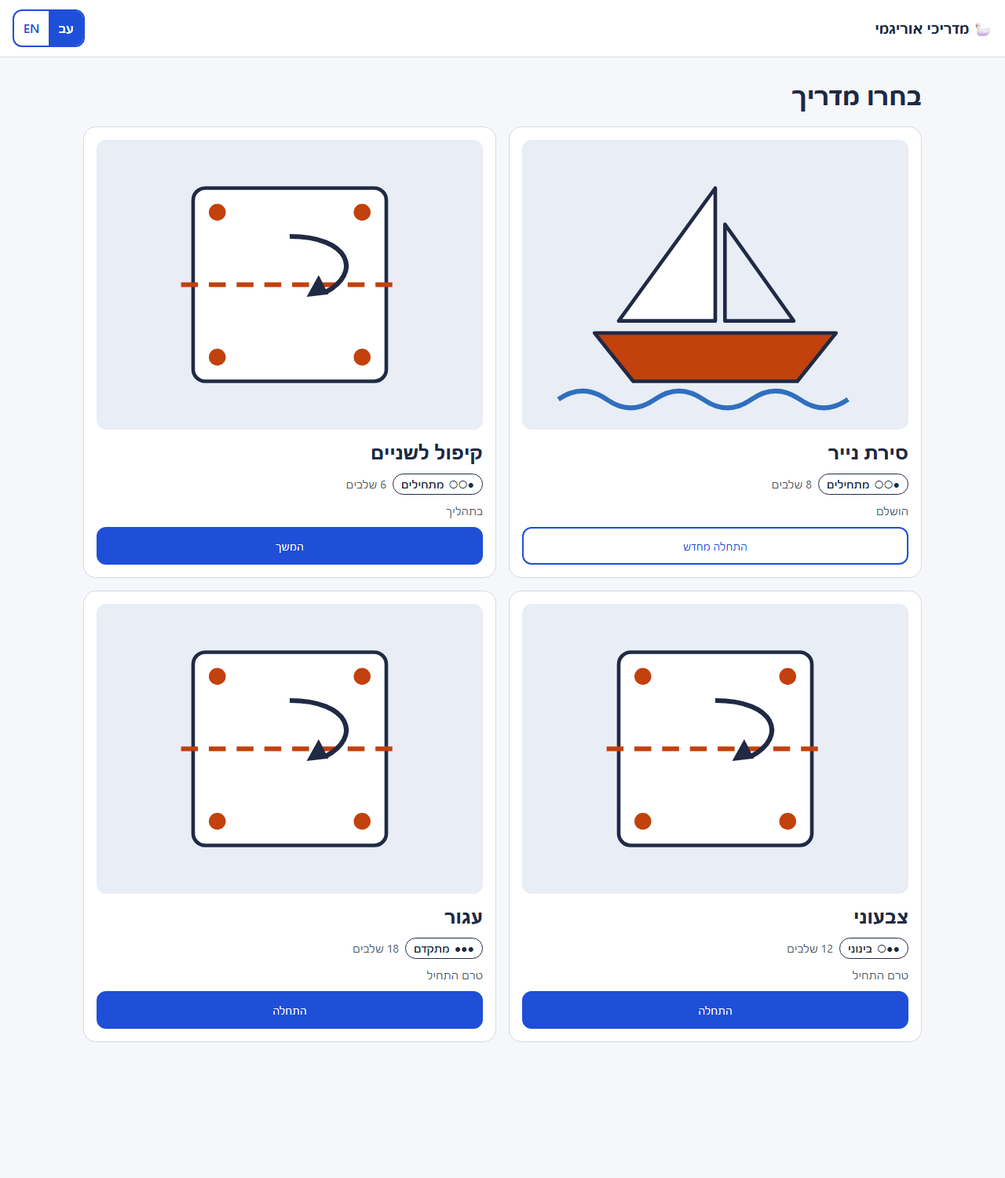
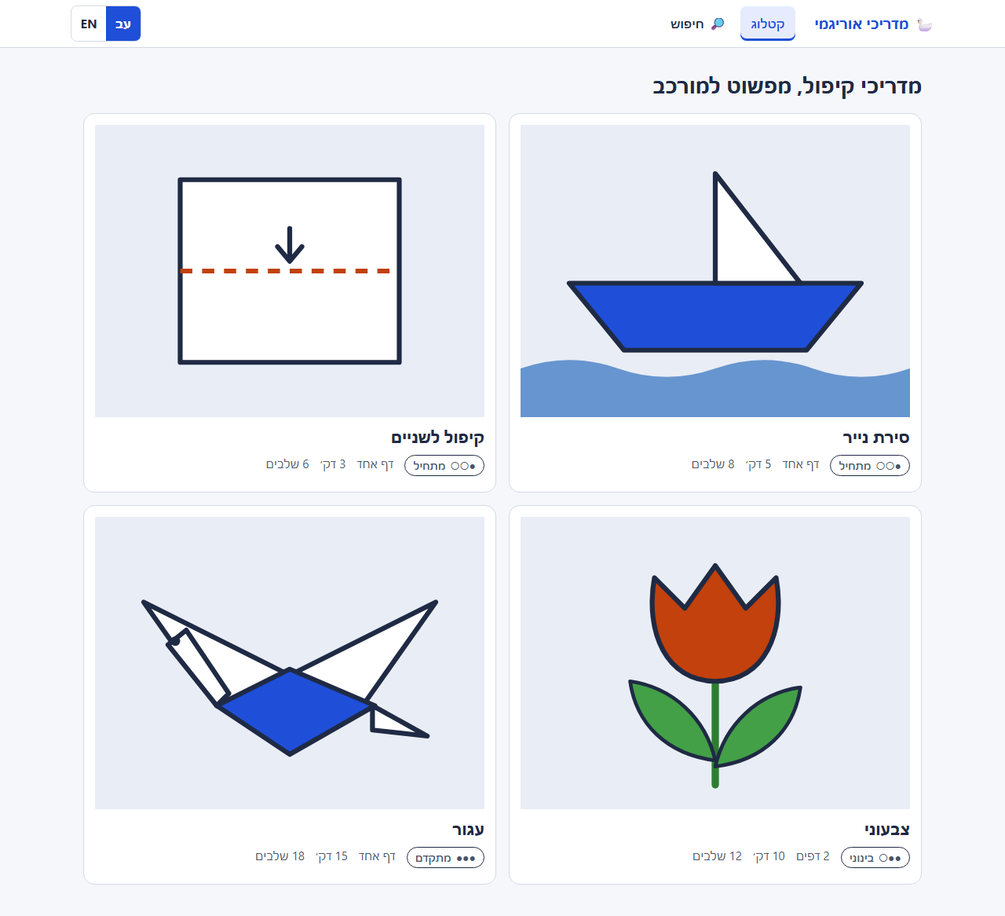
Add navbar, search and catalog table to PRD with full app mockups

diff --git a/docs/design/src/mockup.html b/docs/design/src/mockup.html
@@ -1,52 +1,152 @@
 <!doctype html>
 <html><head><meta charset="utf-8"><meta name="viewport" content="width=device-width,initial-scale=1">
-<title>Origami Guides mockup</title>
+<title>Origami mockup</title>
 <style>
 :root{--bg:#F6F7FB;--ink:#1F2A44;--brand:#1F4FD8;--accent:#C2410C;--water:#2F6FBF;--muted:#4B5568;--line:#D5DAE5;--paper:#fff;--paper-shade:#E9EDF5}
 *{box-sizing:border-box}
-body{margin:0;background:var(--bg);color:var(--ink);font-family:Heebo,Assistant,"Segoe UI",Arial,sans-serif;font-size:16px;line-height:1.5}
-header{display:flex;justify-content:space-between;align-items:center;padding:12px 16px;background:#fff;border-block-end:1px solid var(--line)}
-.logo{font-weight:700;font-size:18px}
-.sw{display:flex;border:2px solid var(--brand);border-radius:12px;overflow:hidden}
-.sw span{min-width:44px;height:44px;display:flex;align-items:center;justify-content:center;font-weight:600;color:var(--brand)}
-.sw span.on{background:var(--brand);color:#fff}
-main{max-width:1100px;margin:0 auto;padding:16px}
+body{margin:0;background:var(--bg);color:var(--ink);font-family:Heebo,Assistant,"Segoe UI",Arial,sans-serif;font-size:16px;line-height:1.5;position:relative;min-height:100vh}
+a{color:inherit;text-decoration:none}
+nav.top{background:#fff;border-bottom:1px solid var(--line);padding:0 16px}
+.bar1{display:flex;align-items:center;gap:8px;min-height:60px;max-width:1100px;margin:0 auto}
+.logo{display:flex;align-items:center;gap:8px;font-weight:700;font-size:18px;min-height:44px;color:var(--brand)}
+.links{display:flex;gap:4px;margin-inline-start:16px}
+.links a{min-height:44px;min-width:44px;padding:0 14px;display:flex;align-items:center;gap:6px;border-radius:8px;font-weight:600}
+.links a.cur{background:#E6ECFD;color:var(--brand);box-shadow:inset 0 -3px 0 var(--brand)}
+.sp{flex:1}
+.sw{display:flex;border:1px solid var(--line);border-radius:8px;overflow:hidden}
+.sw span{min-width:44px;min-height:44px;display:flex;align-items:center;justify-content:center;font-weight:700}
+.sw .on{background:var(--brand);color:#fff}
+.burger{display:none;min-width:44px;min-height:44px;border:1px solid var(--line);border-radius:8px;background:#fff;font-size:22px;align-items:center;justify-content:center}
+.mm{display:none}
+main{max-width:1100px;margin:0 auto;padding:20px 16px 40px}
 h1{font-size:26px;margin:8px 0 16px}
-.card{background:#fff;border:1px solid var(--line);border-radius:16px;padding:16px;display:flex;flex-direction:column;gap:10px}
-.card svg,.hero svg{width:100%;height:auto;background:var(--paper-shade);border-radius:12px}
+h2{font-size:20px;margin:0 0 8px}
+.card{background:var(--paper);border:1px solid var(--line);border-radius:14px;padding:14px;display:block}
 .grid{display:grid;gap:16px;grid-template-columns:1fr}
-.badge{display:inline-flex;gap:6px;align-items:center;border:1.5px solid var(--ink);border-radius:999px;padding:2px 10px;font-size:14px;font-weight:600;width:fit-content}
-.st{color:var(--muted);font-size:14px}
-.btn{min-height:48px;padding:0 20px;border-radius:12px;border:2px solid var(--brand);background:#fff;color:var(--brand);font:600 16px inherit;font-family:inherit;display:inline-flex;align-items:center;justify-content:center;gap:8px}
+@media(min-width:900px){.grid{grid-template-columns:1fr 1fr}}
+.cover{background:var(--paper-shade);border-radius:10px;width:100%;aspect-ratio:4/3;display:block}
+.cover svg,.fold svg{width:100%;height:100%;display:block}
+.meta{display:flex;flex-wrap:wrap;gap:6px 14px;color:var(--muted);font-size:15px;margin:6px 0}
+.badge{display:inline-flex;align-items:center;gap:6px;border:1px solid var(--ink);border-radius:999px;padding:2px 10px;font-size:14px;font-weight:600;background:#fff}
+.btn{min-height:48px;padding:0 18px;border-radius:10px;border:2px solid var(--brand);background:#fff;color:var(--brand);font:inherit;font-weight:700;display:inline-flex;align-items:center;justify-content:center;gap:8px;cursor:pointer}
 .btn.p{background:var(--brand);color:#fff}
-.btn.d{border-color:#B42318;color:#B42318}
-.row{display:flex;gap:12px;flex-wrap:wrap}.row .btn{flex:1}
-.bar{height:10px;background:var(--line);border-radius:6px;overflow:hidden}.bar i{display:block;height:100%;background:var(--brand)}
-.split{display:grid;gap:16px;grid-template-columns:1fr}
-.panel{display:flex;flex-direction:column;gap:14px}
-.tag{background:#FFF1E8;color:#9A3412;border:1.5px dashed #9A3412;border-radius:8px;padding:2px 10px;width:fit-content;font-weight:600;font-size:14px}
-select{min-height:48px;border:2px solid var(--line);border-radius:12px;padding:0 12px;font-size:16px;font-family:inherit;background:#fff;color:var(--ink)}
-.center{text-align:center;align-items:center}
+.btn.d{background:#B42318;border-color:#B42318;color:#fff}
+.row{display:flex;flex-wrap:wrap;gap:10px;margin-top:12px}.row .btn{flex:1}
+.bar{height:10px;background:var(--paper-shade);border-radius:6px;overflow:hidden}.bar i{display:block;height:100%;background:var(--brand)}
 .mir{display:inline-block}[dir=rtl] .mir{transform:scaleX(-1)}
-#model3d{width:0;height:0;overflow:hidden}
-.inst{font-size:20px;font-weight:500}
-@media(min-width:900px){.grid{grid-template-columns:1fr 1fr}.split{grid-template-columns:1.1fr 1fr;align-items:start}h1{font-size:32px}}
-</style></head><body><div id="app"></div>
+.search{display:flex;align-items:center;gap:10px;background:#fff;border:2px solid var(--brand);border-radius:10px;min-height:52px;padding:0 14px;margin-bottom:16px;outline:3px solid #C7D5FA}
+.search .q{flex:1;font-size:17px}.search .ph{color:var(--muted)}
+.cnt{color:var(--muted);margin:0 0 12px}
+table{width:100%;border-collapse:separate;border-spacing:0;background:#fff;border:1px solid var(--line);border-radius:14px;overflow:hidden}
+th,td{text-align:start;padding:0 16px;min-height:56px;height:56px;border-bottom:1px solid var(--line)}
+tr:last-child td{border-bottom:0}
+th{background:var(--paper-shade);font-weight:700}
+th .h{display:inline-flex;align-items:center;gap:6px;min-height:44px}
+th[aria-sort] .h{color:var(--brand)}
+.focus{outline:3px solid var(--accent);outline-offset:2px}
+.cards{display:none}.tbl{display:block}
+.sortc{display:none}
+.empty{text-align:center;padding:36px 16px}.empty .big{font-size:48px}
+.fold{background:#fff;border:1px solid var(--line);border-radius:14px;aspect-ratio:4/3;width:100%}
+.stepgrid{display:grid;gap:16px;grid-template-columns:1fr}
+@media(min-width:900px){.stepgrid{grid-template-columns:1.2fr 1fr}}
+select{min-height:48px;font:inherit;border:2px solid var(--line);border-radius:10px;padding:0 10px;background:#fff;color:var(--ink)}
+.scrim{position:fixed;inset:0;background:rgba(31,42,68,.55)}
+.dlg{position:absolute;top:200px;left:50%;transform:translateX(-50%);width:min(440px,calc(100% - 32px));background:#fff;border-radius:16px;padding:22px;box-shadow:0 10px 40px rgba(0,0,0,.35)}
+.map{display:grid;gap:18px;grid-template-columns:repeat(3,1fr)}
+.tile{background:#fff;border:2px solid var(--line);border-radius:12px;overflow:hidden}
+.tile h3{margin:0;padding:8px 12px;background:var(--brand);color:#fff;font-size:15px}
+.mini{display:flex;align-items:center;gap:6px;padding:6px 10px;border-bottom:1px solid var(--line);font-size:12px;background:#F8F9FC}
+.mini b{color:var(--brand)}.mini .sp{flex:1}.mini .l{border:1px solid var(--line);border-radius:5px;padding:0 6px}
+.tb{padding:12px;font-size:14px;min-height:110px}
+.sk{background:var(--paper-shade);border-radius:6px;height:14px;margin:6px 0}
+.flow{margin-top:20px;background:#fff;border:1px solid var(--line);border-radius:12px;padding:14px 18px}
+.flow li{margin:4px 0}
+@media(max-width:700px){
+.links{display:none}.burger{display:flex}.sp{display:none}.bar1{justify-content:space-between}
+.mm.open{display:flex;flex-direction:column;border-top:1px solid var(--line);padding:8px 0}
+.mm a{min-height:48px;display:flex;align-items:center;gap:8px;padding:0 8px;font-weight:600;border-radius:8px}
+.mm a.cur{background:#E6ECFD;color:var(--brand)}
+.tbl{display:none}.cards{display:grid;gap:12px}.sortc{display:flex;align-items:center;gap:10px;margin-bottom:12px}.sortc select{flex:1;min-width:0}
+.map{grid-template-columns:1fr}h1{font-size:22px}
+}
+html.m body{width:390px;margin-left:0;margin-right:auto}
+html.m .links{display:none}html.m .burger{display:flex}html.m .sp{display:none}html.m .bar1{justify-content:space-between}
+html.m .mm.open{display:flex;flex-direction:column;border-top:1px solid var(--line);padding:8px 0}
+html.m .mm a{min-height:48px;display:flex;align-items:center;gap:8px;padding:0 8px;font-weight:600;border-radius:8px}
+html.m .mm a.cur{background:#E6ECFD;color:var(--brand)}
+html.m .tbl{display:none}html.m .cards{display:grid;gap:12px}html.m .sortc{display:flex;align-items:center;gap:10px;margin-bottom:12px}html.m .sortc select{flex:1;min-width:0}
+html.m .map{grid-template-columns:1fr}html.m h1{font-size:22px}
+</style></head><body>
+<div id="app"></div>
 <script>
-const q=new URLSearchParams(location.search),L=q.get('lang')==='he'?'he':'en',S=q.get('screen')||'catalog';
-document.documentElement.lang=L;document.documentElement.dir=L==='he'?'rtl':'ltr';
-const T={en:{app:'Origami Guides',cat:'Choose a guide',n:['Paper Boat','Fold in Half','Tulip','Crane'],d:['Beginner','Beginner','Intermediate','Advanced'],st:['Completed','In progress','Not started','Not started'],b:['Restart','Resume','Start','Start'],steps:n=>n+' steps',step:'Step 3 of 8',home:'Back to catalog',diff:'Difficulty',prog:'3 of 8 steps done',resume:'Resume',restart:'Restart',tag:'Valley fold',inst:'Fold the top half down along the dashed line so the edges meet.',leg:'Dashed line = valley fold',jump:'Jump to step',back:'Back',next:'Next',done:'Well done! You finished the Paper Boat.',fin:'Step 8 of 8',clear:'Clear my progress',lang:'Language'},
-he:{app:'מדריכי אוריגמי',cat:'בחרו מדריך',n:['סירת נייר','קיפול לשניים','צבעוני','עגור'],d:['מתחילים','מתחילים','בינוני','מתקדם'],st:['הושלם','בתהליך','טרם התחיל','טרם התחיל'],b:['התחלה מחדש','המשך','התחלה','התחלה'],steps:n=>n+' שלבים',step:'שלב 3 מתוך 8',home:'חזרה לקטלוג',diff:'רמת קושי',prog:'3 מתוך 8 שלבים הושלמו',resume:'המשך',restart:'התחלה מחדש',tag:'קיפול עמק',inst:'קפלו את החצי העליון כלפי מטה לאורך הקו המקווקו כך שהקצוות ייפגשו.',leg:'קו מקווקו = קיפול עמק',jump:'מעבר לשלב',back:'הקודם',next:'הבא',done:'כל הכבוד! סיימתם את סירת הנייר.',fin:'שלב 8 מתוך 8',clear:'ניקוי ההתקדמות שלי',lang:'שפה'}}[L];
-const stepSvg=`<svg viewBox="0 0 320 240" role="img" aria-label="${T.tag}"><rect x="80" y="40" width="160" height="160" rx="10" fill="#fff" stroke="#1F2A44" stroke-width="3"/><g fill="#C2410C"><circle cx="100" cy="60" r="7"/><circle cx="220" cy="60" r="7"/><circle cx="100" cy="180" r="7"/><circle cx="220" cy="180" r="7"/></g><line x1="70" y1="120" x2="250" y2="120" stroke="#C2410C" stroke-width="4" stroke-dasharray="14 9"/><path d="M160 80 C210 80 220 110 190 126" fill="none" stroke="#1F2A44" stroke-width="4"/><path d="M184 112 L192 128 L174 130Z" fill="#1F2A44"/></svg>`;
-const boatSvg=`<svg viewBox="0 0 320 240" role="img" aria-label="${T.n[0]}"><path d="M160 40 L160 150 L80 150Z" fill="#fff" stroke="#1F2A44" stroke-width="3" stroke-linejoin="round"/><path d="M168 70 L168 150 L225 150Z" fill="#E9EDF5" stroke="#1F2A44" stroke-width="3" stroke-linejoin="round"/><path d="M60 160 H260 L228 200 H92Z" fill="#C2410C" stroke="#1F2A44" stroke-width="3" stroke-linejoin="round"/><path d="M30 215 q20-14 40 0 t40 0 t40 0 t40 0 t40 0 t40 0" fill="none" stroke="#2F6FBF" stroke-width="4"/></svg>`;
-const hdr=`<header><div class="logo">🦢 ${T.app}</div><div class="sw" role="group" aria-label="${T.lang}"><span class="${L==='he'?'on':''}">עב</span><span class="${L==='en'?'on':''}">EN</span></div></header>`;
-const diffBadge=i=>{const lv=[1,1,2,3][i];return `<span class="badge"><span aria-hidden="true">${'●'.repeat(lv)}${'○'.repeat(3-lv)}</span>${T.d[i]}</span>`};
-const pb=(t,c)=>`<div class="bar" role="progressbar" aria-label="${t}"><i style="width:${c}%"></i></div>`;
-const home=`<div><button class="btn"><span class="mir" aria-hidden="true">←</span> ${T.home}</button></div>`;
-let m='';
-if(S==='catalog'){m=`<h1>${T.cat}</h1><div class="grid">`+[0,1,2,3].map(i=>`<article class="card">${i===0?boatSvg:stepSvg}<h2 style="margin:0">${T.n[i]}</h2><div class="row" style="gap:8px;align-items:center">${diffBadge(i)}<span class="st">${T.steps([8,6,12,18][i])}</span></div><div class="st">${T.st[i]}</div><button class="btn ${i>0?'p':''}">${T.b[i]}</button></article>`).join('')+`</div>`}
-if(S==='overview'){m=`${home}<div class="split" style="margin-top:12px"><div class="hero">${boatSvg}</div><div class="panel"><h1 style="margin:0">${T.n[0]}</h1><div>${diffBadge(0)} <span class="st">· ${T.steps(8)}</span></div><div class="st">${T.prog}</div>${pb(T.prog,37.5)}<div class="row"><button class="btn p">${T.resume}</button><button class="btn">${T.restart}</button></div></div></div>`}
-if(S==='step'){m=`${home}<div class="split" style="margin-top:12px"><div class="hero">${stepSvg}<div id="model3d" aria-hidden="true"></div></div><div class="panel"><div class="st" style="font-weight:600;color:var(--ink)">${T.step}</div>${pb(T.step,37.5)}<span class="tag">${T.tag}</span><p class="inst" style="margin:0">${T.inst}</p><div class="st">${T.leg}</div><label class="panel" style="gap:6px">${T.jump}<select><option>${T.step}</option></select></label><div class="row"><button class="btn"><span class="mir" aria-hidden="true">←</span> ${T.back}</button><button class="btn p">${T.next} <span class="mir" aria-hidden="true">→</span></button></div></div></div>`}
-if(S==='completed'){m=`<div class="panel center" style="max-width:560px;margin:0 auto"><div style="font-size:48px" aria-hidden="true">🎉</div><div class="hero" style="width:100%">${boatSvg}</div><h1 style="margin:0">${T.done}</h1><div class="st">${T.fin}</div>${pb(T.fin,100)}<div class="row" style="width:100%"><button class="btn p">${T.home}</button><button class="btn">${T.restart}</button></div><div class="row" style="width:100%"><button class="btn"><span class="mir" aria-hidden="true">←</span> ${T.back}</button><button class="btn d">${T.clear}</button></div></div>`}
-document.getElementById('app').innerHTML=hdr+`<main>${m}</main>`;
+var q=new URLSearchParams(location.search),L=q.get('lang')==='en'?'en':'he',S=q.get('screen')||'catalog',MENU=q.get('menu')==='open';
+if(q.get('mobile')==='1')document.documentElement.className='m';document.documentElement.lang=L;document.documentElement.dir=L==='he'?'rtl':'ltr';
+var T={en:{app:'Origami Guides',cat:'Catalog',search:'Search',n:['Paper Boat','Fold in Half','Tulip','Crane'],lv:['Beginner','Beginner','Intermediate','Advanced'],tags:['boat, water','basics','flower','bird'],
+ pc:'Pieces',tm:'Time',nm:'Name',lvl:'Level',min:' min',sheets:function(n){return n+(n==1?' sheet':' sheets')},
+ steps:function(n){return n+' steps'},step:function(a,b){return 'Step '+a+' of '+b},menu:'Menu',lang:'Language',
+ ph:'Search guides…',sq:'beginner',nq:'dragon',res:function(n){return n+' guides found'},all:'Showing all 4 guides',none:'No guides match “dragon”',clr:'Clear search',
+ sort:'Sort by',asc:'ascending',back:'Back',next:'Next',jump:'Jump to step',home:'Back to catalog',start:'Start',resume:'Resume at step 3',restart:'Restart',clearp:'Clear progress',
+ prog:'Progress: step 3 of 12',stext:'Fold the bottom edge up to the middle line, then crease firmly.',sdesc:'Valley fold diagram',
+ done:'Well done!',donet:'You finished the Tulip.',again:'Fold it again',
+ ct:'Clear progress?',cb:'This removes your saved place in every guide. This cannot be undone.',cancel:'Cancel',
+ mapt:'Navigation map',mapc:['Catalog (table)','Search','Guide overview','Step','Completed','Clear progress'],
+ flow:['Logo → Catalog; Catalog and Search links are in every navbar.','Catalog row or card → Guide overview → Start / Resume → Step.','Last step → Completed → Fold again or Back to catalog.','Clear progress opens a confirmation dialog from the overview.','Language switch (עב / EN) is only in the navbar.'],
+ sc:'Folding guides, from simple to complex'},
+he:{app:'מדריכי אוריגמי',cat:'קטלוג',search:'חיפוש',n:['סירת נייר','קיפול לשניים','צבעוני','עגור'],lv:['מתחיל','מתחיל','בינוני','מתקדם'],tags:['סירה, מים','בסיס','פרח','ציפור'],
+ pc:'חלקים',tm:'זמן',nm:'שם',lvl:'רמה',min:' דק׳',sheets:function(n){return n==1?'דף אחד':n+' דפים'},
+ steps:function(n){return n+' שלבים'},step:function(a,b){return 'שלב '+a+' מתוך '+b},menu:'תפריט',lang:'שפה',
+ ph:'חיפוש מדריכים…',sq:'מתחיל',nq:'דרקון',res:function(n){return 'נמצאו '+n+' מדריכים'},all:'מוצגים כל 4 המדריכים',none:'לא נמצאו מדריכים עבור “דרקון”',clr:'ניקוי החיפוש',
+ sort:'מיון לפי',asc:'עולה',back:'הקודם',next:'הבא',jump:'קפיצה לשלב',home:'חזרה לקטלוג',start:'התחלה',resume:'המשך משלב 3',restart:'התחלה מחדש',clearp:'ניקוי התקדמות',
+ prog:'התקדמות: שלב 3 מתוך 12',stext:'קפלו את הקצה התחתון כלפי מעלה עד קו האמצע, והדגישו את הקיפול.',sdesc:'תרשים קיפול עמק',
+ done:'כל הכבוד!',donet:'סיימתם את הצבעוני.',again:'לקפל שוב',
+ ct:'לנקות את ההתקדמות?',cb:'הפעולה תמחק את המקום השמור בכל המדריכים ואי אפשר לבטל אותה.',cancel:'ביטול',
+ mapt:'מפת ניווט',mapc:['קטלוג (טבלה)','חיפוש','סקירת מדריך','שלב','הושלם','ניקוי התקדמות'],
+ flow:['לוגו ← קטלוג; הקישורים קטלוג וחיפוש בכל סרגל ניווט.','שורה או כרטיס בקטלוג ← סקירת מדריך ← התחלה / המשך ← שלב.','שלב אחרון ← הושלם ← לקפל שוב או חזרה לקטלוג.','ניקוי התקדמות פותח דיאלוג אישור מתוך הסקירה.','מתג השפה (עב / EN) נמצא רק בסרגל הניווט.'],
+ sc:'מדריכי קיפול, מפשוט למורכב'}}[L];
+var PC=[1,1,2,1],MN=[5,3,10,15],LV=[1,1,2,3],ST=[8,6,12,18];
+var C=['<svg viewBox="0 0 320 240" role="img" aria-label="boat"><rect width="320" height="240" fill="var(--paper-shade)"/><path d="M40 130h240l-45 55H85z" fill="var(--brand)" stroke="var(--ink)" stroke-width="4" stroke-linejoin="round"/><path d="M160 40l70 90H160z" fill="#fff" stroke="var(--ink)" stroke-width="4" stroke-linejoin="round"/><path d="M0 200q40-14 80 0t80 0 80 0 80 0v40H0z" fill="var(--water)" opacity=".7"/></svg>',
+'<svg viewBox="0 0 320 240" role="img" aria-label="fold"><rect width="320" height="240" fill="var(--paper-shade)"/><rect x="70" y="45" width="180" height="150" fill="#fff" stroke="var(--ink)" stroke-width="4" stroke-linejoin="round"/><path d="M70 120h180" stroke="var(--accent)" stroke-width="4" stroke-dasharray="10 8"/><path d="M160 85v25m-10-10l10 12 10-12" stroke="var(--ink)" stroke-width="4" fill="none" stroke-linecap="round" stroke-linejoin="round"/></svg>',
+'<svg viewBox="0 0 320 240" role="img" aria-label="tulip"><rect width="320" height="240" fill="var(--paper-shade)"/><path d="M160 120v100" stroke="#2E7D32" stroke-width="6" stroke-linecap="round"/><path d="M160 200C120 195 95 170 90 135c35 5 62 30 70 65zM160 205c40-5 65-30 70-65-35 5-62 30-70 65z" fill="#43A047" stroke="var(--ink)" stroke-width="3" stroke-linejoin="round"/><path d="M110 50l25 25 25-35 25 35 25-25c8 45-10 85-50 85s-58-40-50-85z" fill="var(--accent)" stroke="var(--ink)" stroke-width="4" stroke-linejoin="round"/></svg>',
+'<svg viewBox="0 0 320 240" role="img" aria-label="crane"><rect width="320" height="240" fill="var(--paper-shade)"/><path d="M160 130L40 70l60 85zM160 130l120-60-60 85z" fill="#fff" stroke="var(--ink)" stroke-width="4" stroke-linejoin="round"/><path d="M100 155l60-30 70 30-70 40z" fill="var(--brand)" stroke="var(--ink)" stroke-width="4" stroke-linejoin="round"/><path d="M228 155l45 25-45-5zM100 155L60 105l15-12 35 52z" fill="#fff" stroke="var(--ink)" stroke-width="4" stroke-linejoin="round"/><circle cx="66" cy="102" r="4" fill="var(--ink)"/></svg>'];
+var STEPSVG='<svg viewBox="0 0 320 240" role="img" aria-label="'+T.sdesc+'"><rect x="70" y="45" width="180" height="150" fill="#fff" stroke="var(--ink)" stroke-width="4" stroke-linejoin="round"/><rect x="70" y="120" width="180" height="75" fill="var(--paper-shade)"/><path d="M70 120h180" stroke="var(--accent)" stroke-width="4" stroke-dasharray="10 8"/><path d="M160 180v-45m-12 14l12-14 12 14" stroke="var(--ink)" stroke-width="4" fill="none" stroke-linecap="round" stroke-linejoin="round"/></svg>';
+function dots(i){var l=LV[i],s='';for(var k=1;k<=3;k++)s+=k<=l?'●':'○';return '<span class="badge" aria-label="'+T.lv[i]+'"><span aria-hidden="true">'+s+'</span> '+T.lv[i]+'</span>'}
+function nav(cur,menu){
+ var sr='<span class="mir" aria-hidden="true">🔍</span>';
+ var l1='<a href="#" class="'+(cur==='catalog'?'cur':'')+'">'+T.cat+'</a>',l2='<a href="#" class="'+(cur==='search'?'cur':'')+'">'+sr+' '+T.search+'</a>';
+ var sw='<div class="sw" role="group" aria-label="'+T.lang+'"><span class="'+(L==='he'?'on':'')+'">עב</span><span class="'+(L==='en'?'on':'')+'">EN</span></div>';
+ return '<nav class="top" aria-label="'+T.app+'"><div class="bar1"><a class="logo" href="#"><span aria-hidden="true">🦢</span>'+T.app+'</a><div class="links">'+l1+l2+'</div><div class="sp"></div>'+sw+
+ '<button class="burger'+(menu?' focus':'')+'" aria-expanded="'+(!!menu)+'" aria-label="'+T.menu+'">'+(menu?'✕':'☰')+'</button></div>'+
+ '<div class="mm'+(menu?' open':'')+'">'+l1+l2+'</div></nav>'}
+function card(i){return '<a class="card" href="#"><div class="cover">'+C[i]+'</div><h2 style="margin-top:10px">'+T.n[i]+'</h2><div class="meta">'+dots(i)+'<span>'+T.sheets(PC[i])+'</span><span>'+MN[i]+T.min+'</span><span>'+T.steps(ST[i])+'</span></div></a>'}
+function pb(p){return '<div class="bar" role="progressbar" aria-valuenow="'+p+'"><i style="width:'+p+'%"></i></div>'}
+function back(){return '<a class="btn" href="#"><span class="mir">←</span> '+T.home+'</a>'}
+function list(idx){return idx.map(card).join('')}
+function table(order,sortKey){
+ function th(k,t){var on=k===sortKey;return '<th scope="col" '+(on?'aria-sort="ascending"':'aria-sort="none"')+'><span class="h'+(k==='nm'&&0?' focus':'')+'">'+t+' <span aria-hidden="true">'+(on?'▲':'↕')+'</span></span></th>'}
+ var rows=order.map(function(i,j){return '<tr><td><a href="#"><b>'+T.n[i]+'</b></a></td><td>'+dots(i)+'</td><td>'+T.sheets(PC[i])+'</td><td>'+MN[i]+T.min+'</td></tr>'}).join('');
+ var cards=order.map(function(i){return '<a class="card" href="#"><div style="display:flex;gap:12px;align-items:center"><div class="cover" style="width:96px;flex:none">'+C[i]+'</div><div><h2 style="margin:0">'+T.n[i]+'</h2><div class="meta">'+dots(i)+'<span>'+T.sheets(PC[i])+'</span><span>'+MN[i]+T.min+'</span></div></div></div></a>'}).join('');
+ return '<div class="tbl"><table><thead><tr>'+th('nm',T.nm)+th('lv',T.lvl)+th('pc',T.pc)+th('tm',T.tm)+'</tr></thead><tbody>'+rows+'</tbody></table></div>'+
+ '<div class="sortc"><label for="s">'+T.sort+'</label><select id="s"><option>'+T[sortKey==='tm'?'tm':'nm']+' ('+T.asc+')</option></select></div><div class="cards">'+cards+'</div>'}
+function miniTile(t,body){return '<div class="tile"><h3>'+t+'</h3><div class="mini"><b>🦢</b><span>'+T.cat+'</span><span>'+T.search+'</span><span class="sp"></span><span class="l">עב|EN</span></div><div class="tb">'+body+'</div></div>'}
+function sk(n){var s='';for(var i=0;i<n;i++)s+='<div class="sk" style="width:'+(95-i*15)+'%"></div>';return s}
+var m='',cur='',menu=false;
+if(S==='catalog'){cur='catalog';m='<h1>'+T.sc+'</h1><div class="grid">'+list([0,1,2,3])+'</div>'}
+else if(S==='navbar'){cur='catalog';menu=MENU;m='<h1>'+T.sc+'</h1><div class="grid">'+list([0,1])+'</div>'}
+else if(S==='catalog-table'){cur='catalog';m='<h1>'+T.cat+'</h1>'+table([1,0,2,3],'tm')}
+else if(S==='search-empty'){cur='search';m='<h1>'+T.search+'</h1><div class="search"><span class="mir" aria-hidden="true">🔍</span><span class="q ph">'+T.ph+'</span></div><p class="cnt">'+T.all+'</p><div class="grid">'+list([0,1,2,3])+'</div>'}
+else if(S==='search-results'){cur='search';m='<h1>'+T.search+'</h1><div class="search"><span class="mir" aria-hidden="true">🔍</span><span class="q">'+T.sq+'</span><span aria-hidden="true">✕</span></div><p class="cnt" role="status">'+T.res(2)+'</p><div class="grid">'+list([0,1])+'</div>'}
+else if(S==='search-noresults'){cur='search';m='<h1>'+T.search+'</h1><div class="search"><span class="mir" aria-hidden="true">🔍</span><span class="q">'+T.nq+'</span><span aria-hidden="true">✕</span></div><div class="card empty" role="status"><div class="big" aria-hidden="true">🔍</div><h2>'+T.none+'</h2><div class="row" style="justify-content:center"><a class="btn p" href="#" style="flex:none">'+T.clr+'</a></div></div>'}
+else if(S==='step'){cur='';var jump='<label for="j">'+T.jump+'</label> <select id="j"><option>3</option></select>';
+ m='<div class="row" style="margin:0 0 12px">'+back()+'</div><h1>'+T.n[2]+'</h1><div class="meta"><b>'+T.step(3,12)+'</b></div>'+pb(25)+
+ '<div class="stepgrid" style="margin-top:16px"><div class="fold">'+STEPSVG+'</div><div class="card"><h2>'+T.step(3,12)+'</h2><p style="font-size:18px">'+T.stext+'</p><div class="row"><a class="btn" href="#"><span class="mir">←</span> '+T.back+'</a><a class="btn p focus" href="#">'+T.next+' <span class="mir">→</span></a></div><div class="row" style="align-items:center">'+jump+'</div></div></div>'}
+else if(S==='overview'||S==='clear-progress'){cur='catalog';m='<div class="row" style="margin:0 0 12px">'+back()+'</div><div class="grid"><div class="cover">'+C[2]+'</div><div><h1>'+T.n[2]+'</h1><div class="meta">'+dots(2)+'<span>'+T.sheets(PC[2])+'</span><span>'+MN[2]+T.min+'</span><span>'+T.steps(12)+'</span></div><p>'+T.prog+'</p>'+pb(25)+'<div class="row"><a class="btn p" href="#">'+T.resume+' <span class="mir">→</span></a><a class="btn" href="#">'+T.restart+'</a><a class="btn d" href="#">'+T.clearp+'</a></div></div></div>'}
+else if(S==='completed'){cur='catalog';m='<div class="card empty"><div class="big" aria-hidden="true">🎉</div><h1>'+T.done+'</h1><div class="cover" style="max-width:320px;margin:0 auto 12px">'+C[2]+'</div><p>'+T.donet+'</p><div class="row" style="justify-content:center"><a class="btn p" href="#" style="flex:none">'+T.again+'</a><a class="btn" href="#" style="flex:none">'+T.home+'</a></div></div>'}
+else if(S==='nav-overview'){var w=T.mapc,tl=[miniTile(w[0],'<div class="sk" style="height:24px;background:#D5DAE5"></div>'+sk(3)),miniTile(w[1],'<div class="search" style="min-height:30px;margin:0 0 6px;outline:0"><span class="mir">🔍</span></div>'+sk(2)),miniTile(w[2],'<div style="display:flex;gap:8px"><div style="width:70px;height:52px;background:var(--paper-shade);border-radius:6px"></div><div style="flex:1">'+sk(3)+'</div></div>'),miniTile(w[3],'<div style="height:50px;background:var(--paper-shade);border-radius:6px"></div>'+sk(2)),miniTile(w[4],'<div class="big" style="text-align:center;font-size:30px">🎉</div>'+sk(2)),miniTile(w[5],'<div style="border:2px solid #B42318;border-radius:8px;padding:8px;margin-top:6px">'+sk(2)+'</div>')];
+ m='<h1>'+T.mapt+'</h1><div class="map">'+tl.join('')+'</div><div class="flow"><ul style="margin:0;padding-inline-start:20px">'+T.flow.map(function(x){return '<li>'+x+'</li>'}).join('')+'</ul></div>'}
+var extra='';
+if(S==='clear-progress')extra='<div class="scrim"></div><div class="dlg" role="alertdialog" aria-modal="true" aria-labelledby="ct"><h2 id="ct">'+T.ct+'</h2><p>'+T.cb+'</p><div class="row"><a class="btn focus" href="#">'+T.cancel+'</a><a class="btn d" href="#">'+T.clearp+'</a></div></div>';
+var navHtml=S==='nav-overview'?nav('',false):nav(cur,menu);
+document.getElementById('app').innerHTML=navHtml+'<main>'+m+'</main>'+extra;
+setTimeout(function(){document.title='H'+document.documentElement.scrollHeight},50);
 </script></body></html>

diff --git a/docs/prd.md b/docs/prd.md
@@ -51,6 +51,7 @@ Source: `spec/prd-notes.txt` (read-only). Every requirement cites a note (N1-N7,
 - SVG illustrations with no dependency on Figma. (N6)
 - Mobile-first responsive layout that also works on desktop. (N6)
 - Local progress and language saving on the device. (N4, N7, A-8)
+- NEW (owner request 2026-11-08): navbar on every screen (logo/home, Catalog, Search, language switch; collapses to a menu on mobile), client-side search, and a sortable catalog table with name, level, pieces and time (stacked cards on mobile). (A-30..A-36)
 
 **Out of scope for v1, planned later (see section 4)**
 - Capacitor packaging for the stores. (N1)
@@ -85,6 +86,16 @@ Source: `spec/prd-notes.txt` (read-only). Every requirement cites a note (N1-N7,
 - **US-10.** As a learner, I want the app to work without an account or server. (N1, N7)
 - **US-11a (v1).** As the product owner, I want to review 2 sample SVG illustrations before approving the spec, and all step images delivered as SVG (SM4). (N6, Q-7)
 - **US-11b (not v1).** As the product owner, I want a later 3D asset or naming per step. (N2)
+
+New in this round (NEW, source: owner request 2026-11-08):
+
+- **US-12 (NEW, v1).** As a learner, I want a navbar on every screen with a logo that goes home, a Catalog link, a Search field and a language switch, so that I can move around without going back. (owner request 2026-11-08, A-33)
+- **US-13 (NEW, v1).** As a learner on a phone, I want the navbar to collapse into a menu, so that it fits a small screen. (owner request 2026-11-08, A-33)
+- **US-14 (NEW, v1).** As a learner, I want to search the guides by typing, so that I can find a model quickly. (owner request 2026-11-08, A-30..A-32)
+- **US-15 (NEW, v1).** As a learner, I want to see all origami models in one table with name, level, number of pieces and time, so that I can compare and pick one. (owner request 2026-11-08, A-34)
+- **US-16 (NEW, v1).** As a learner, I want to sort the table by any column, so that I can find, for example, the shortest or easiest model. (owner request 2026-11-08, A-35)
+- **US-17 (NEW, v1).** As a learner on a phone, I want the catalog table to remain usable on a small screen. (owner request 2026-11-08, A-35)
+- **US-18 (NEW, v1).** As the product owner, I want the mockups to show the folding work screen (step image, instruction, "Step n of N", Back/Next), so that I can approve the core experience. (owner request 2026-11-08, A-37)
 
 ## 6. Workflows and status
 
@@ -289,6 +300,21 @@ Format: `AC-n`, a checkable statement, covered stories, requirement IDs, verific
 - **AC-48.** Sign-off gate: the PRD is not approved until the owner has reviewed 2 sample SVGs and recorded approval in section 13. Covers: US-11a. Reqs: S-11, N6, Q-7 A. Verify: manual.
 - **AC-49.** (Not v1.) SVG parts use consistent names so a later 3D or animated version is possible; not needed for v1 function and not a v1 release gate. Covers: US-11b. Reqs: S-10, TC-7, N2. Verify: manual.
 
+### 9.9 New requirements (owner request 2026-11-08)
+
+- **AC-53.** Given any screen (catalog, overview, step view, completion screen), then a navbar is present with exactly 4 items: logo/home (navigates to the catalog home), Catalog, Search, language switch. Covers: US-12. Reqs: A-33. Verify: test.
+- **AC-54.** Given a 320-430 px viewport, then Catalog and Search are inside a collapsible menu (closed by default, opened and closed by a toggle button with `aria-expanded`), the logo and language switch stay visible, and every navbar target is at least 44x44 CSS px. Covers: US-13. Reqs: A-33, A-22. Verify: test, manual on phone.
+- **AC-55.** Given Hebrew (RTL), then the navbar layout is mirrored (logo at the inline start) and directional icons are flipped; in English (LTR) they are not. Covers: US-12, US-13. Reqs: A-33. Verify: test, manual.
+- **AC-56.** Given a query, when the user types, then the guides are filtered as they type by name, level or tags, case-insensitively and by substring, in the active language (the English name also matches); this makes no network request. Covers: US-14. Reqs: A-30, A-31, N1. Verify: test (including network-call check).
+- **AC-57.** Given an empty query, then all 4 guides are shown. Covers: US-14. Reqs: A-32. Verify: test.
+- **AC-58.** Given a query with no matches, then an empty state with a message and a "clear search" action is shown, and activating the action restores all guides. Covers: US-14. Reqs: A-32. Verify: test.
+- **AC-59.** The catalog table has the columns name, level, pieces and time (minutes), with a value in every column for all 4 guides. Covers: US-15. Reqs: A-34. Verify: test.
+- **AC-60.** Given a column header, when activated, then rows sort by that column, toggling ascending and descending, and the header exposes `aria-sort`; level sorts by the fixed scale (A-15), pieces and time sort numerically; the default order is simple to complex. Covers: US-16. Reqs: A-35, A-15. Verify: test.
+- **AC-61.** Given a row, when activated, then the guide overview opens. Covers: US-15. Reqs: A-35. Verify: test.
+- **AC-62.** Given a 320-430 px viewport, then the table is shown as stacked cards with name, level, pieces and time, with no horizontal scroll, and a sort control is still available. Covers: US-17. Reqs: A-35, Q-12. Verify: test, manual on phone.
+- **AC-63.** Given keyboard only, then the navbar, menu toggle, search field, clear action, sortable headers and rows are reachable, operable (Enter/Space) and show visible focus. Covers: US-12, US-14, US-16, US-17. Reqs: AX-2, A-35. Verify: test, manual.
+- **AC-64.** The mockup set contains the folding work screen (step image, instruction, "Step n of N", Back/Next), plus the navbar, search and catalog table, in Hebrew RTL and English, on mobile and desktop. Covers: US-18. Reqs: A-37. Verify: manual (owner review).
+
 ### 9.8 Traceability
 
 | Story | ACs |
@@ -305,6 +331,13 @@ Format: `AC-n`, a checkable statement, covered stories, requirement IDs, verific
 | US-10 | AC-14-22 |
 | US-11a | AC-44-48 |
 | US-11b | AC-49 (not v1) |
+| US-12 | AC-53, 55, 63 |
+| US-13 | AC-54, 55 |
+| US-14 | AC-56-58, 63 |
+| US-15 | AC-59, 61 |
+| US-16 | AC-60, 63 |
+| US-17 | AC-62, 63 |
+| US-18 | AC-64 |
 
 Gaps: P-6 (store disclosure) has no v1 AC because packaging is out of v1; AX-9 (dark mode) is optional. The AC-45 size budget is set (20 KB per SVG, Q-6 A). AC-1 (4 guides, Q-1 B) and AC-25 (Q-2 A) are no longer pending. AC-36's browser version list is still open (Q-8). AC-37 and AC-48 depend on owner judgement and sign-off. AC-49 (US-11b) is not a v1 criterion.
 
@@ -353,6 +386,14 @@ Gaps: P-6 (store disclosure) has no v1 AC because packaging is out of v1; AX-9 (
 | A-27 | The no-collection stance follows from "totally front end". |
 | A-28 | The notation follows common origami conventions. The exact style is a design-step decision. |
 | A-29 | Target browsers are current evergreen mobile and desktop browsers and the Capacitor webviews. |
+| A-30 | NEW (owner request 2026-11-08). Search is client-side over the 4 bundled guides, with no network (N1). Searchable fields: guide name, level and tags, in the active language (the English name is also matched). Open: Q-11. |
+| A-31 | NEW (owner request 2026-11-08). Search is case-insensitive, matches substrings and filters as the user types, with no debounce. |
+| A-32 | NEW (owner request 2026-11-08). An empty query shows all guides. A query with no matches shows an empty state with a message and a "clear search" action. |
+| A-33 | NEW (owner request 2026-11-08). Navbar contents: logo/home, Catalog, Search, language switch. It is the single home of the language switch. On mobile, Catalog and Search sit in a collapsible menu while the logo and language switch stay visible. Directional icons mirror in RTL. Targets are at least 44 px (A-22). Open: Q-10. |
+| A-34 | NEW (owner request 2026-11-08). "Number of pieces" means sheets of paper needed. "Time" means estimated minutes. Both are authored content metadata, so the guide model gains `pieces` and `minutes`. Open: Q-9, Q-14. |
+| A-35 | NEW (owner request 2026-11-08). The table sorts by clicking a column header (toggles ascending and descending, `aria-sort` announced). Default order is simple to complex. Level sorts by the fixed scale (A-15). Pieces and time sort numerically. A row opens the guide overview. On mobile the table becomes stacked cards (Q-12). Open: Q-12, Q-13. |
+| A-36 | NEW (owner request 2026-11-08). Search filters the table rows and sort orders them. Search text and sort state are not persisted. |
+| A-37 | NEW (owner request 2026-11-08). The mockup set includes the folding work screen, the navbar, search and the catalog table, in Hebrew RTL and English, on mobile and desktop. |
 
 ## 12. Open questions
 

diff --git a/docs/design/README.md b/docs/design/README.md
@@ -1,41 +1,48 @@
-# Design samples (Origami Guides App)
+# Design mockups – Origami Guides App
 
-Status: **draft for owner review** (PRD Q-7, AC-37, AC-48). Nothing here changes `docs/prd.md`.
-Guide names, step counts and progress states in the mockups are fictional placeholders. No personal data is used.
+Status: draft for owner review. PRD approval is **pending and not recorded here**. Open questions Q-8..Q-14 remain open.
 
-## Sample SVG illustrations (US-11a, AC-44..48)
+PNG naming: `<screen>-<mobile|desktop>-<he|en>.png` (mobile 390px, desktop 1280px; `he` = Hebrew RTL, `en` = English LTR). UI icons mirror in RTL; fold diagrams never mirror. All data is fictional.
 
-| File | Bytes | Alt text (English) | Alt text (Hebrew) |
+## SVG assets
+
+| File | Approx. size | Alt (en) | Alt (he) |
 |---|---|---|---|
-| `sample-step-fold-in-half.svg` | ~1.1 KB | Square paper with a dashed valley-fold line across the middle and an arrow folding the top half down. | נייר מרובע עם קו קיפול עמק מקווקו באמצע וחץ המקפל את החצי העליון כלפי מטה. |
-| `sample-cover-paper-boat.svg` | ~0.9 KB | Finished paper boat floating on water, with a triangular sail and a trapezoid hull. | סירת נייר גמורה צפה על המים, עם מפרש משולש וגוף טרפזי. |
+| `sample-step-fold-in-half.svg` | existing | Square paper with a dashed valley-fold line across the middle and an arrow folding the top half down. | נייר מרובע עם קו קיפול עמק מקווקו באמצע וחץ המקפל את החצי העליון כלפי מטה. |
+| `sample-cover-paper-boat.svg` | existing | Finished paper boat floating on water, with a triangular sail and a trapezoid hull. | סירת נייר גמורה צפה על המים, עם מפרש משולש וגוף טרפזי. |
+| `sample-cover-tulip.svg` | ~1 KB | A paper tulip with a folded red bloom on a green stem with two leaves. | צבעוני מנייר עם פרח אדום מקופל על גבעול ירוק עם שני עלים. |
+| `sample-cover-crane.svg` | ~1 KB | A paper crane with spread wings, a long neck and a pointed beak. | עגור נייר עם כנפיים פרושות, צוואר ארוך ומקור מחודד. |
 
-- Both: `viewBox="0 0 320 240"`, no `<text>`, far below the 20 KB limit, colours via CSS variables with fallbacks.
-- RTL-safe: fold diagrams are never mirrored (AC-30). Only UI arrows (Back/Next) mirror.
-- Notation key: valley fold = dashed line; mountain fold = dash-dot line; paper sides are told apart by fill, not colour alone.
+Tulip and Crane covers are their own simple SVGs (no text, under 20 KB).
 
 ## Screens
 
-Naming: `<screen>-<mobile|desktop>-<he|en>.png`. Mobile is 390 px wide, desktop 1280 px wide. Hebrew is RTL.
+Each screen has 4 PNGs (desktop/mobile x he/en) unless noted.
 
-| Screens (mobile/desktop x he/en) | User stories | Acceptance criteria |
-|---|---|---|
-| `catalog-*` (guide list with difficulty badges, progress state, language switch) | US-1, 3, 4, 6, 7, 8, 9 | AC-1, 4, 7, 52 |
-| `overview-*` (guide overview) | US-1, 3, 9 | AC-2, 7, 52 |
-| `step-*` (step view: picture, text, progress bar, jump-to-step, Back/Next) | US-2, 5, 6, 7, 9 | AC-30, 35, 52 |
-| `completed-*` (completion, restart, clear progress) | US-9 | AC-52 |
-
-The language switcher (44 px segments) appears on every screen (AC-52). Difficulty uses dots plus a text label, not colour alone (AC-7). The reserved 3D container (AC-35) is an empty, hidden element and so is invisible in the images.
+| Screen (file prefix) | Shows | Alt (en) | Alt (he) | US | AC |
+|---|---|---|---|---|---|
+| `navbar` (desktop only, 2 files) | Navbar: brand, Catalog/Search links, language switch | Desktop navigation bar with the app name, catalog and search links and a language switch. | סרגל ניווט בדסקטופ עם שם האפליקציה, קישורים לקטלוג ולחיפוש ומתג שפה. | US-12, 13 | AC-53, 55, 63 |
+| `navbar-menu-closed` (mobile, 2 files) | Collapsed mobile bar with menu button | Mobile bar with the app name and a closed menu button. | סרגל נייד עם שם האפליקציה וכפתור תפריט סגור. | US-12 | AC-53, 55 |
+| `navbar-menu-open` (mobile, 2 files) | Open mobile menu | Mobile bar with the menu open showing catalog, search and language switch. | סרגל נייד עם תפריט פתוח: קטלוג, חיפוש ומתג שפה. | US-12, 13 | AC-53, 54, 55, 63 |
+| `catalog` | Guide card grid with navbar (pieces and minutes) | Catalog of guide cards with cover, level, pieces and time. | קטלוג כרטיסי מדריכים עם תמונה, רמה, חלקים וזמן. | US-1, 3, 4, 6, 7, 8, 9 | AC-1, 4, 7, 52 |
+| `catalog-table` | Sortable table (name, level, pieces, time) with `aria-sort` indicator; mobile stacked cards (Q-12 A) | Guides table with sortable column headers; on mobile each guide is a stacked card. | טבלת מדריכים עם כותרות עמודות הניתנות למיון; בנייד כל מדריך הוא כרטיס מוערם. | US-15, 16, 17 | AC-59, 60, 61, 62, 63 |
+| `search-empty` | Search page before typing | Search page with an empty field and a prompt to type. | דף חיפוש עם שדה ריק והנחיה להקליד. | US-14 | AC-56, 63 |
+| `search-results` | Search with matching guides | Search results listing guides that match the query. | תוצאות חיפוש עם מדריכים התואמים לשאילתה. | US-14 | AC-56, 57 |
+| `search-noresults` | No-match state | Search page with a message that no guides were found. | דף חיפוש עם הודעה שלא נמצאו מדריכים. | US-14 | AC-58 |
+| `overview` | Guide overview with navbar | Guide overview with cover, pieces, time and start button. | סקירת מדריך עם תמונה, חלקים, זמן וכפתור התחלה. | US-1, 3, 9 | AC-2, 7, 52 |
+| `step` | Folding work screen: step image, text, "Step n of N", Back/Next, jump, language switch in navbar | Folding step with diagram, instruction, step counter, back and next buttons and a jump control. | שלב קיפול עם תרשים, הוראה, מונה שלבים, כפתורי הקודם והבא ובקרת קפיצה. | US-2, 5, 6, 7, 9 | AC-30, 35, 52 |
+| `completed` | Completion screen with navbar | Completion screen congratulating the user, with return to catalog. | מסך סיום עם ברכה וחזרה לקטלוג. | US-9 | AC-52 |
+| `clear-progress` | Confirmation dialog to clear saved progress | Dialog asking to confirm clearing saved progress, with confirm and cancel buttons. | חלון אישור לניקוי ההתקדמות השמורה, עם כפתורי אישור וביטול. | – (P-4) | AC-16 |
+| `nav-overview` | Navigation map: catalog/table, search, overview, step, completed, clear-progress, navbar on each | Map of all screens with arrows showing navigation, each with the navbar. | מפת ניווט של כל המסכים עם חצים, ולכל מסך סרגל ניווט. | US-18 | AC-64 |
 
 ## Sources and re-rendering
 
-`src/mockup.html` (takes `?lang=he|en&screen=catalog|overview|step|completed`) and `src/frame.html` (fixes the viewport width) are the sources. PNGs are headless Edge screenshots of them.
+- Single source: `src/mockup.html`, driven by query params: `lang=he|en`, `screen=<name>`, optional `menu=open`, `mobile=1`.
+- Rendered with headless Edge screenshots (`--screenshot`); mobile is cropped to 390px.
 
-## For the owner to review
+## Caveats / for the owner to review
 
-1. The SVG style and notation key (AC-47, AC-48, Q-7) and the choice of the two sample models.
-2. The "clean, simple, modern" sign-off on all four screens in he and en (AC-37).
-3. Hebrew font choice (A-24): mockups use a system fallback stack, not final Heebo/Assistant.
-4. The clear-progress confirmation dialog is not drawn; only the button appears (P-4).
-5. Fold in Half, Tulip and Crane cards reuse the sample step image as a placeholder cover.
-6. Q-8 (browser list) remains open; PRD approval remains pending.
+- Heebo/Assistant are listed first in the font stack but are not installed on the render machine; PNGs use the Segoe UI fallback.
+- `mockup.html` uses simplified inline versions of the Tulip/Crane covers (Fold in Half cover is inline only); standalone SVGs are the reference.
+- Mobile PNGs are cropped from an 800px-wide render (headless Edge cannot render below ~500px); mobile catalog and search-empty are tall.
+- Q-8..Q-14 are open; approval is not recorded.

diff --git a/docs/open-questions.md b/docs/open-questions.md
@@ -29,6 +29,12 @@ Source: `spec/prd-notes.txt` (notes N1-N7, in order of appearance).
 | Q-6 | Confirm WCAG level (A-25), 20 KB per SVG, and SM1-SM5? Recommend confirm as proposed. | Yes | Product owner | Resolved 2026-11-08 - owner chose A: confirmed WCAG 2.2 AA, 20 KB per SVG, SM1-SM5 (matched recommendation) |
 | Q-7 | Review 2 sample SVGs before PRD approval (N6, S-11, AC-48)? Recommend yes. | Yes | Product owner | Resolved 2026-11-08 - owner chose A: owner reviews 2 sample SVGs before approval (matched recommendation) |
 | Q-8 | Remaining non-blocking: browser version list (AC-36), restart/clear-progress confirmation (AC-16), Jump from Not started/Completed and Start-without-Next persistence (6.4), "browser language = he/en only" assumption, server-save intent, export/import, progress granularity. | No | Product owner | Open |
+| Q-9 | NEW (owner request 2026-11-08). "Number of pieces" = A) sheets of paper (recommended), B) number of steps, C) both columns. (A-34) | No | Product owner | Open |
+| Q-10 | NEW. Search UI: A) navbar field with live results dropdown, icon expands to field on mobile (recommended), B) results page, C) only filters the table. (A-33) | No | Product owner | Open |
+| Q-11 | NEW. Search fields: A) name, level, tags (recommended), B) name only, C) also step text. (A-30) | No | Product owner | Open |
+| Q-12 | NEW. Mobile table: A) stacked cards (recommended), B) horizontal scroll with sticky name column. (A-35, AC-62) | No | Product owner | Open |
+| Q-13 | NEW. Is the table the catalog (A, recommended: replaces the card list) or a second view with a toggle (B)? | No | Product owner | Open |
+| Q-14 | NEW. Who supplies pieces, minutes and tags: A) team proposes, owner reviews (recommended), B) owner supplies. Also whether time is a single value or a range. (A-34) | No | Product owner | Open |
 
 ## Non-blocking review findings (2026-11-08 status)
 Applied: AC section rewritten (AC-1..AC-52), AC-49/S-10 non-v1, P-4..P-6 citations, A-2, A-17, A-25 updated.
